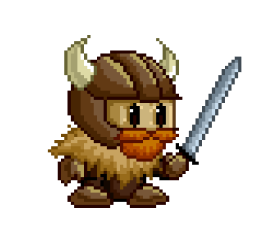
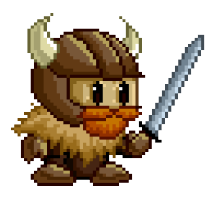
checked responsiveness of characters section

diff --git a/styles/sections/Y-section.css b/styles/sections/Y-section.css
@@ -30,95 +30,71 @@
     gap: 40px;
     max-width: 1300px;
 }
-
-/* Characters Section Styles */
-.characters-section {
-    padding: 20px;
-    text-align: center; /* Center-aligns all content in the section */
-}
-
-.character-title {
+.transparent-container>h1{
     color: #222651;
-    margin: 20px 0; /* Adds spacing above and below the title */
+
 }
+/* Characters Section Styles */
+
+
 
 .character-cards {
     display: flex;
-    flex-direction: row;
     justify-content: center;
     gap: 20px;
     flex-wrap: wrap;
-    margin-top: 20px;
 }
 
 .character-card {
-    width: 150px;
-    height: 250px;
+    width: 300px;
+    height: 500px;
     background-color: #D9D9D9;
-    border: 5px solid #6A3F07;
-    border-radius: 15px;
+    border: 8px solid #6A3F07;
+    border-radius: 24px;
     display: flex;
     flex-direction: column;
     align-items: center;
     justify-content: space-between;
-    box-shadow: 0 4px 8px rgba(0, 0, 0, 0.2);
-    overflow: hidden;
-    padding: 10px 0;
+    box-shadow: 0 0 10px 2px #FABC3F;
+    padding: 10px;
 }
 
 
-.character-card img {
-    max-width: 80%; /* Ensures the image doesn’t exceed the white background */
-    max-height: 100%; /* Keeps the image within the white background height */
-    object-fit: contain; /* Maintains image aspect ratio */
-}
 
 .character-image-bg {
-    width: 85%; /* Slightly wider for a more balanced look */
-    height: 150px; /* Larger height to extend close to the yellow bar */
-    background-color: white;
-    border-radius: 10px;
+    width: 150px; /* Slightly wider for a more balanced look */
+    height: 150px;
     display: flex;
     align-items: center;
     justify-content: center;
-    margin-bottom: 5px; /* Small margin between white background and yellow bar */
 }
 
 
 .character-info {
     width: 100%;
-    padding: 10px;
+    height: 200px;
     text-align: center;
-    font-family: 'norse';
-    font-size: 0.9em;
-    color: #6A3F07;
+    display: flex;
+    align-items: center;
+    color: #222651;
+    font-weight: bold;
     background-color: #FABC3F; /* Yellow background color */
-    position: relative;
-    bottom: 0; /* Ensures it sits at the bottom */
-    margin-top: auto; /* Pushes it to the bottom of the card */
-}
+    border-radius: 20px;
 
+}
 .backstory-text {
     background-image: url('/Assets/setup-page/btn-bg.jpg'); /* Replace with actual path */
     background-size: cover;
     background-position: center;
     background-repeat: no-repeat;
     padding: 20px;
-    font-family: 'roman-uncial-modern';
     font-size: 1.2em;
     text-align: center;
     color: white;
-    margin-bottom: 40px; /* Adds space below the text section */
     border-radius: 24px;
     line-height: 2em;
 }
 
-.backstory-title, .character-title {
-    color: #222651;
-}
 
 
-.backstory-section, .characters-section {
-    margin-bottom: 40px; /* Adds equal space between sections */
-    text-align: center;
-}
+

diff --git a/styles/sections/i-section.css b/styles/sections/i-section.css
@@ -153,7 +153,6 @@ nav{
 .wood-container{
     background-image: url('/game/assets/setup-page/wood.svg');
     width: 90%;
-    border-radius: 24px;
     background-repeat: no-repeat;
     background-size: cover;
     display: flex;

diff --git a/styles/base/layout.css b/styles/base/layout.css
@@ -99,8 +99,8 @@ p{
         width: 70px;
     }
     p{
-        width: 60%;
-
+        width: 80%;
+        margin-inline: auto;
     }
 }
 @media screen and (max-width:933px) {
